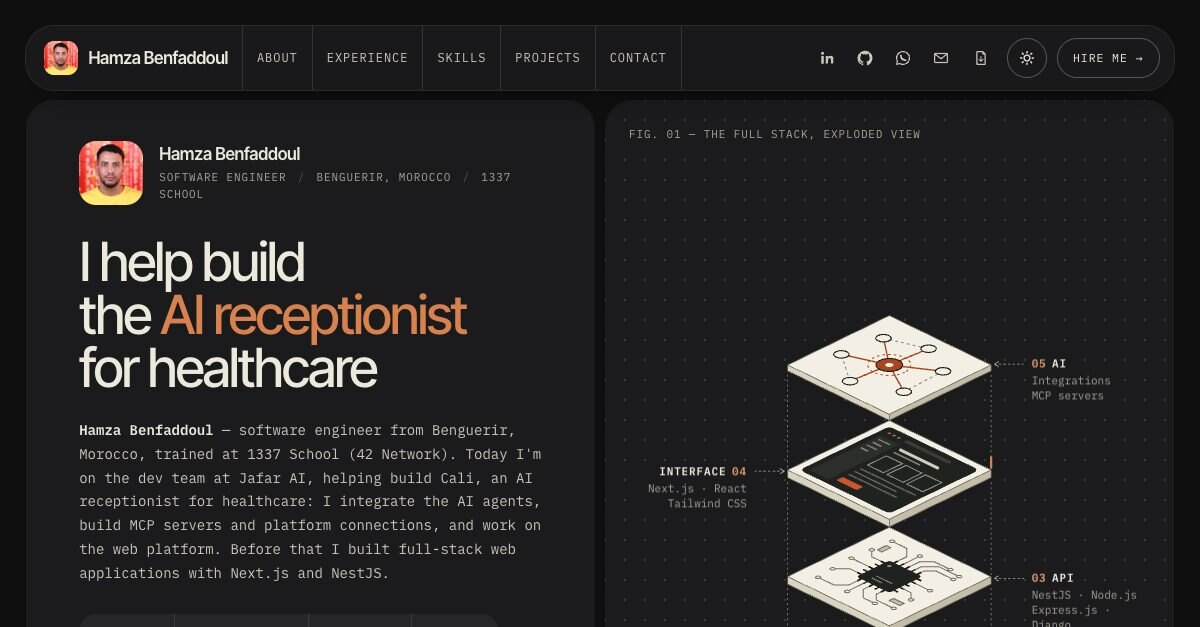
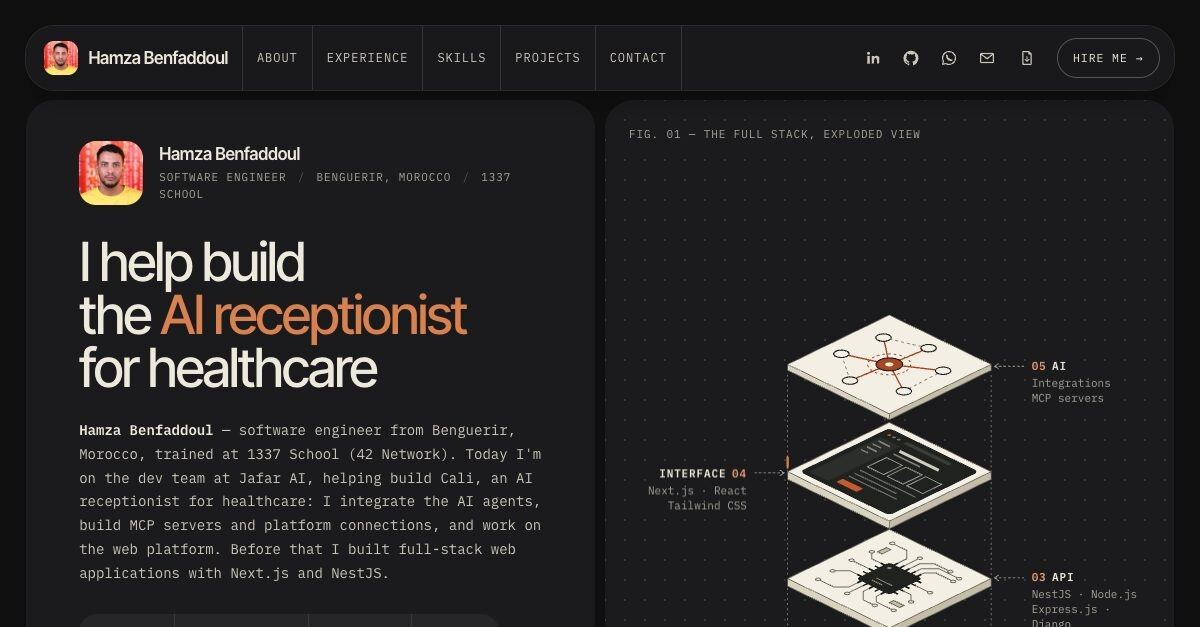
Remove the light theme
The site is dark only again: drop the theme switch from the bar and the
phone menu, the light palette, the cross-fade and the saved preference.
Update CLAUDE.md and refresh the social preview image.

diff --git a/css/site.css b/css/site.css
@@ -1,10 +1,9 @@
 /* ==========================================================================
    Hamza Benfaddoul — portfolio
-   Rounded instrument cards on a plain canvas; section titles sit on the canvas.
-   Two themes share every rule: dark is the default (:root), light overrides the
-   same tokens under :root[data-theme="light"]. Cards are --paper, raised
-   sub-cards --paper-2. The route panel (.hud) stays dark in both themes.
-   Text on yellow/orange highlights is always --dark; text on --ink chips is --on-ink.
+   Dark rounded instrument cards on a near-black canvas; section titles sit on the
+   canvas. Cards are --paper, raised sub-cards --paper-2. Every colour goes through
+   the tokens below. Text on yellow/orange highlights is always --dark; text on
+   --ink chips is --on-ink; text on the accent is --on-accent.
    ========================================================================== */
 
 :root {
@@ -31,7 +30,7 @@
   --dark: #1A1A18;
   --r-card: clamp(20px, 2.4vw, 30px);
   --r-sub: 18px;
-  /* theme-dependent pieces (overridden for the light theme below) */
+  /* supporting pieces */
   --on-ink: #1A1A18;            /* text on cream chips */
   --on-accent: #1A1A18;         /* text on the accent colour */
   --line: #3B3B3E;              /* dividers inside raised sub-cards */
@@ -51,35 +50,6 @@
   --ease: cubic-bezier(.2, .7, .2, 1);
   --dots: radial-gradient(circle at center, rgba(236, 232, 220, .15) 0 1px, transparent 1.45px);
 }
-
-/* light theme: the same cards as warm paper. The route device stays dark on purpose — it is the
-   one instrument on the desk, as in the original notebook. */
-:root[data-theme="light"] {
-  color-scheme: light;
-  --rust: #A9451F;
-  --rust-dk: #8F3A1A;
-  --paper: #F4F1E8;
-  --paper-2: #E9E5D9;
-  --panel: #F4F1E8;
-  --ink: #1A1A18;
-  --body: #4A4842;
-  --muted: #5F5C54;
-  --hair: #D5D0C2;
-  --rule: #8F8A7C;
-  --canvas: #E2DDCF;
-  --on-ink: #F4F1E8;
-  --on-accent: #FFF7EC;
-  --line: #D2CCBD;
-  --neutral: #D8D2C2;
-  --dot: rgba(26, 26, 24, .26);
-  --dots: radial-gradient(circle at center, rgba(26, 26, 24, .2) 0 1px, transparent 1.45px);
-  --edge: rgba(26, 26, 24, .16);
-  --field-focus: #FBF9F3;
-  --plate-filter: grayscale(1) contrast(.95);
-  --h1: #D7C2B0; --h2: #CAA48E; --h3: #C29178; --h4: #B97B5E; --h5: #A8522F; --h6: #A03F19;
-}
-/* a short cross-fade while the theme switches (site.js adds and removes the class) */
-.is-theming, .is-theming *, .is-theming *::before, .is-theming *::after { transition: background-color .25s ease, color .25s ease, border-color .25s ease, fill .25s ease, stroke .25s ease !important; }
 
 /* ---------- base ---------- */
 *, *::before, *::after { box-sizing: border-box; }
@@ -146,7 +116,7 @@ main { display: grid; gap: 10px; }
 .bar__brand { display: flex; align-items: center; gap: 10px; flex: 0 0 auto; padding: 0 22px 0 clamp(20px, 2.6vw, 40px); border-right: 1px solid var(--hair); border-radius: var(--r-card) 0 0 var(--r-card); text-decoration: none; color: var(--ink); }
 .bar__photo { width: 34px; height: 34px; flex: none; border-radius: 10px; object-fit: cover; }
 .bar__name { font: 600 17px/1 var(--sans); letter-spacing: -.02em; white-space: nowrap; }
-/* nav, status, social links and the theme switch live in one wrapper: on wide screens it dissolves
+/* nav, status and social links live in one wrapper: on wide screens it dissolves
    into the bar's row; on narrow ones it becomes the drop-down panel behind the menu button */
 .bar__panel { display: contents; }
 .bar__nav { display: flex; }
@@ -156,7 +126,7 @@ main { display: grid; gap: 10px; }
 .bar__nav a[aria-current] { color: var(--ink); }
 .bar__status { display: none; align-items: center; gap: 8px; margin-left: auto; padding: 0 18px; font-size: 11px; letter-spacing: .08em; text-transform: uppercase; white-space: nowrap; color: var(--body); }
 .dot { width: 7px; height: 7px; border-radius: 50%; background: var(--rust); box-shadow: 0 0 0 3px rgba(217, 129, 78, .22); flex: none; }
-.bar__links { display: flex; align-items: center; gap: 2px; margin: 0 8px 0 auto; }
+.bar__links { display: flex; align-items: center; gap: 2px; margin: 0 12px 0 auto; }
 .bar__links a { display: flex; align-items: center; justify-content: center; gap: 7px; width: 38px; height: 38px; border-radius: 999px; color: var(--body); text-decoration: none; transition: background-color .15s, color .15s, border-color .15s; }
 .bar__links a:hover { background: var(--paper-2); color: var(--ink); }
 .bar__links svg { width: 18px; height: 18px; flex: none; }
@@ -165,12 +135,6 @@ main { display: grid; gap: 10px; }
 .bar__cv a { width: auto; padding: 0 14px 0 11px; border: 1px solid var(--rule); color: var(--ink); }
 .bar__cv a:hover { background: var(--ink); border-color: var(--ink); color: var(--paper-2); }
 .bar__cv .bar__lbl { position: static; width: auto; height: auto; overflow: visible; clip-path: none; font-size: 11.5px; letter-spacing: .08em; text-transform: uppercase; }
-.bar__theme { align-self: center; display: grid; place-items: center; flex: none; width: 40px; height: 40px; margin-right: 10px; border: 1px solid var(--rule); border-radius: 50%; color: var(--ink); transition: background-color .15s, color .15s, border-color .15s; }
-.bar__theme:hover { background: var(--ink); border-color: var(--ink); color: var(--paper-2); }
-.bar__theme svg { width: 18px; height: 18px; }
-.bar__theme .i-moon, :root[data-theme="light"] .bar__theme .i-sun { display: none; }
-:root[data-theme="light"] .bar__theme .i-moon { display: block; }
-html:not(.js) .bar__theme { display: none; }
 .bar__menu { display: none; }
 .bar__cta { align-self: center; display: inline-flex; align-items: center; gap: 8px; min-height: 40px; margin-right: clamp(14px, 2vw, 28px); padding: 0 15px; border: 1px solid var(--rule); border-radius: 999px; font-size: 11.5px; letter-spacing: .08em; text-transform: uppercase; text-decoration: none; color: var(--ink); white-space: nowrap; transition: background-color .15s, color .15s, border-color .15s; }
 .bar__cta:hover { background: var(--ink); border-color: var(--ink); color: var(--paper-2); }
@@ -673,7 +637,6 @@ html:not(.js) [data-plate] .plate__frame + .plate__frame { border-radius: 0; }
   .bar__cv { margin-left: 6px; }
   .bar__cv a { width: auto; padding: 0 16px 0 12px; border: 1px solid var(--rule); color: var(--ink); }
   .bar__cv .bar__lbl { position: static; width: auto; height: auto; overflow: visible; clip-path: none; }
-  .bar__theme { width: 44px; height: 44px; margin: 0; }
   /* without JavaScript there is no menu button: the panel is simply a second row */
   html:not(.js) .bar { flex-wrap: wrap; }
   html:not(.js) .bar__menu { display: none; }
@@ -712,6 +675,6 @@ html:not(.js) [data-plate] .plate__frame + .plate__frame { border-radius: 0; }
 @media print {
   body { background: #fff; }
   .sheet { width: 100%; margin: 0; box-shadow: none; }
-  .skip, .colophon, .bar__menu, .bar__theme { display: none; }
+  .skip, .colophon, .bar__menu { display: none; }
   .js [data-reveal] { opacity: 1; transform: none; }
 }

diff --git a/index.html b/index.html
@@ -26,7 +26,7 @@
   <meta name="twitter:title" content="Hamza Benfaddoul — Software Engineer" />
   <meta name="twitter:description" content="Software engineer from 1337 School. Full-stack web development, AI integrations and MCP servers." />
   <meta name="twitter:image" content="https://www.hamza-benfaddoul.me/images/Hamza-Benfaddoul.jpg" />
-  <script>document.documentElement.classList.add('js');try{if(localStorage.getItem('theme')==='light')document.documentElement.setAttribute('data-theme','light')}catch(e){}</script>
+  <script>document.documentElement.classList.add('js');</script>
   <link rel="preconnect" href="https://fonts.googleapis.com" />
   <link rel="preconnect" href="https://fonts.gstatic.com" crossorigin />
   <link href="https://fonts.googleapis.com/css2?family=IBM+Plex+Mono:wght@400;500;600&amp;family=Inter+Tight:wght@400..700&amp;family=Reenie+Beanie&amp;display=swap" rel="stylesheet" />
@@ -86,7 +86,6 @@
         <li><a href="mailto:benfaddoul01@gmail.com" title="E-mail"><svg viewBox="0 0 24 24" aria-hidden="true" focusable="false"><use href="#i-mail"/></svg><span class="bar__lbl">E-mail</span></a></li>
         <li class="bar__cv"><a href="hamza-benfaddoul.pdf" target="_blank" rel="noopener" title="Download CV (PDF)"><svg viewBox="0 0 24 24" aria-hidden="true" focusable="false"><use href="#i-cv"/></svg><span class="bar__lbl">CV</span></a></li>
       </ul>
-      <button class="bar__theme" type="button" data-theme-toggle aria-label="Switch to light theme"><svg class="i-sun" viewBox="0 0 24 24" aria-hidden="true" focusable="false"><use href="#i-sun"/></svg><svg class="i-moon" viewBox="0 0 24 24" aria-hidden="true" focusable="false"><use href="#i-moon"/></svg></button>
     </div>
     <button class="bar__menu" type="button" aria-expanded="false" aria-controls="bar-panel" aria-label="Open menu"><span aria-hidden="true"></span></button>
     <a class="bar__cta" href="#contact">Hire me <span aria-hidden="true">→</span></a>

diff --git a/js/site.js b/js/site.js
@@ -9,24 +9,6 @@
   var reduce = window.matchMedia && window.matchMedia('(prefers-reduced-motion: reduce)').matches;
   var hasIO = 'IntersectionObserver' in window;
 
-  /* ---------- 0. Theme: dark by default, light on request; the choice is remembered ---------- */
-  var themeBtn = $('[data-theme-toggle]'), themeMeta = $('meta[name="theme-color"]');
-  var paint = function (light) {
-    if (light) d.documentElement.setAttribute('data-theme', 'light'); else d.documentElement.removeAttribute('data-theme');
-    if (themeMeta) themeMeta.setAttribute('content', light ? '#E2DDCF' : '#0F0F10');
-    if (themeBtn) themeBtn.setAttribute('aria-label', light ? 'Switch to dark theme' : 'Switch to light theme');
-  };
-  paint(d.documentElement.getAttribute('data-theme') === 'light');   // the inline head script already applied a saved choice
-  if (themeBtn) themeBtn.addEventListener('click', function () {
-    var light = d.documentElement.getAttribute('data-theme') !== 'light';
-    if (!reduce) {
-      d.documentElement.classList.add('is-theming');
-      setTimeout(function () { d.documentElement.classList.remove('is-theming'); }, 320);
-    }
-    paint(light);
-    try { localStorage.setItem('theme', light ? 'light' : 'dark'); } catch (e) {}
-  });
-
   /* ---------- 1. Reveals: fire once, never reset ---------- */
   var reveals = $$('[data-reveal]');
   if (!hasIO || reduce) {

diff --git a/CLAUDE.md b/CLAUDE.md
@@ -33,10 +33,10 @@ so **pushing to `main` publishes the site**. Work on a branch and merge when it 
   `js` class the inline head script adds to `<html>`. Reveals fire once and never reset.
 - Respect `prefers-reduced-motion`: no idle animation, no auto-spin, no drawing effects.
 - Keep the section ids `about`, `experience`, `skill`, `portfolio`, `contact`.
-- Colours go through the tokens at the top of `site.css`. Dark is the default theme; light
-  overrides the same tokens under `:root[data-theme="light"]`. Text on yellow or orange is
-  `--dark`; text on `--ink` chips is `--on-ink`; text on the accent is `--on-accent`.
-- The route panel (`.hud`) stays dark in both themes on purpose; it uses the `--hud-*` tokens.
+- Colours go through the tokens at the top of `site.css`. The site is dark only (a light
+  theme was tried and removed at Hamza's request). Text on yellow or orange is `--dark`;
+  text on `--ink` chips is `--on-ink`; text on the accent is `--on-accent`.
+- The route panel (`.hud`) uses its own `--hud-*` tokens.
 - The top bar is sticky. Its breakpoints are 1560, 1239, 1079 (compact, menu button), 459, 399
   and 349px — re-measure it at each one after changing anything inside it.
 
@@ -69,7 +69,7 @@ node tools/shot.mjs index.html /tmp/shots --selector ".hud" --scale 2 --name map
 
 Each run prints a JSON report: horizontal overflow and its offenders, console errors, failed
 requests, broken images. All of them must be clean. Open the JPEGs it writes and look at them.
-Check both themes (click `[data-theme-toggle]` with `--eval`) and widths from 320 to 1600px.
+Check widths from 320 to 1600px.
 
 After changing the hero, regenerate the social preview from it:
 
